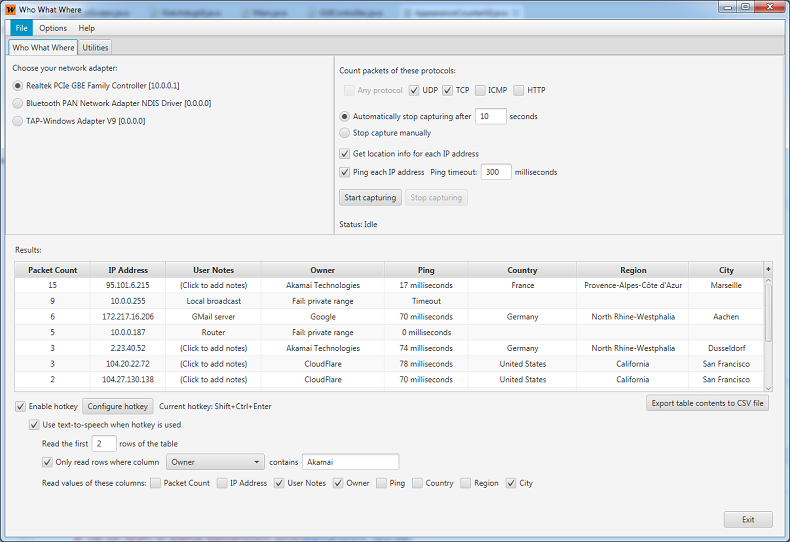
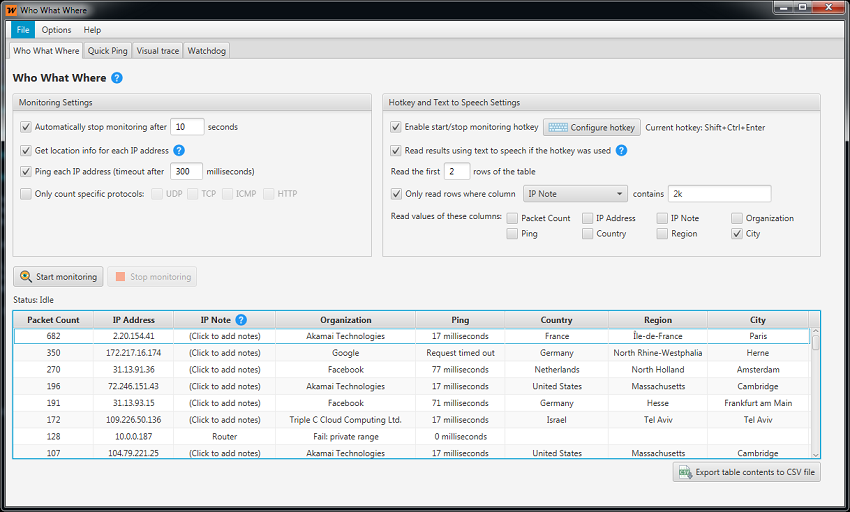
update

Changed region(s): [[0.0, 0.0, 1.0, 1.0], [0.8506, 0.4062, 0.9418, 0.4688], [0.2734, 0.375, 0.3038, 0.4062]]

diff --git a/index.html b/index.html
@@ -19,7 +19,8 @@
 			<h1>Who What Where</h1>
 		</div>
 
-		<p><strong>Analyze your network traffic to find what IP addresses are used and where they're from. Additional utilities include Ping-to-Speech, Visual Trace, and Watchdog that notifies when a pre-defined type of packet is sent or received.</strong></p>
+		<p><strong>Analyze your PC's network traffic to see which IP addresses it communicates with and where they're from.
+		<br><br>Additional features include Quick Ping, Visual Trace, and Watchdog which inspects network traffic and notifies when a packet matches a predefined rule.</strong></p>
 
 		<div class="links">
 			<a href="https://github.com/ck3ck3/WhoWhatWhere/releases">Download Here</a>
@@ -27,31 +28,31 @@
 		</div>
 
 		<div class="screenshot"><a href="http://ck3ck3.github.io/WhoWhatWhere/screenshots/WhoWhatWhere.png"><img src="http://ck3ck3.github.io/WhoWhatWhere/screenshots/WhoWhatWhere-medium.png"></a></div>
-		<div class="screenshot"><a href="http://ck3ck3.github.io/WhoWhatWhere/screenshots/VisualTrace.png"><img src="http://ck3ck3.github.io/WhoWhatWhere/screenshots/VisualTrace-medium.png"></a></div>
+		<div class="screenshot"><a href="http://ck3ck3.github.io/WhoWhatWhere/screenshots/VisualTraceAnim.gif"><img src="http://ck3ck3.github.io/WhoWhatWhere/screenshots/VisualTraceAnim.gif" width="850" /></a></div>
 		<img src="http://2no.co/1ffJ"/>
 
 	    <h1>Feature list</h1>
 	    <ul>
 	      <li>
 	      	<h2><a class="imgLink" href="http://ck3ck3.github.io/WhoWhatWhere/screenshots/WhoWhatWhere.png">Who What Where</a></h2>
-	      	<p>See the IP addresses that your computer communicates with, sorted by amount of packets transmitted. Shows GeoIP and a ping result for each address. Can be used for determining a game server IP or monitoring suspicious internet connections.</p>
+	      	<p>See the IP addresses that your computer communicates with, sorted by amount of packets transmitted. Shows GeoIP info(organization, country, region, and city) and a ping result for each address. Can be used for determining a game server IP or monitoring suspicious internet connections.</p>
 	      </li>
 
 	      <li>
-	      	<h2><a class="imgLink" href="http://ck3ck3.github.io/WhoWhatWhere/screenshots/PingToSpeech.png">Ping to Speech</a></h2>
-	      	<p>Press a hotkey and hear the result of a ping sent to a predefined IP address or hostname. Useful while playing online games.</p>
+	      	<h2><a class="imgLink" href="http://ck3ck3.github.io/WhoWhatWhere/screenshots/QuickPing.png">Quick Ping</a></h2>
+	      	<p>Press a hotkey and hear the result of a ping sent to a predefined IP address or hostname. Useful while playing online games. The ping result can be shown in a pop-up message or read out loud in one of several voices and languages (English, French, German, Italian).</p>
 	      </li>
 
+		  <li>
+	      	<h2><a class="imgLink" href="http://ck3ck3.github.io/WhoWhatWhere/screenshots/VisualTraceAnim.gif">Visual Trace</a></h2>
+	      	<p>Perform a traceroute for a given IP address or hostname and see the route plotted on a map as the trace progresses.</p>
+	      </li>
+		  
 	      <li>
 	      	<h2><a class="imgLink" href="http://ck3ck3.github.io/WhoWhatWhere/screenshots/Watchdog.png">Watchdog</a></h2>
-			<p>Inspects network traffic and checks if any packet matches a predefined filter. Filters include packet direction (incoming/outgoing), IP address or ranges (subnets), user notes, packet size (including ranges) and source/destination ports ranges. Upon finding a match, a predefined message will be read out by text-to-speech or displayed in a pop-up message.
+			<p>Inspects network traffic and checks if any packet matches a predefined filter. Filters include IP address or ranges (subnets), packet direction (incoming/outgoing), protocol, source/destination ports, and packet size. Upon finding a match, a predefined message will be displayed in a pop-up message or read out loud in one of several voices and languages (English, French, German, Italian).
 			<br>This feature can be used as a notifier for an incoming connection, for example.
 			</p>
-	      </li>
-
-	      <li>
-	      	<h2><a class="imgLink" href="http://ck3ck3.github.io/WhoWhatWhere/screenshots/VisualTrace.png">Visual Trace</a></h2>
-	      	<p>Perform a trace-route for a given IP address or hostname. Once the trace is complete, a visual trace is available, which shows the route of your packet on a map.</p>
 	      </li>
 	    </ul>
 		
@@ -80,15 +81,14 @@
 
 
 	    <h2>How to Use</h2> 
-	    <p>Who What Where can be minimized to the systrem tray by pressing the 'x' (close window) button. In order to exit for the program, press the Exit button or right-click the icon in the system-tray and choose "Exit".</p>
+	    <p>Who What Where can be minimized to the systrem tray by pressing the 'x' (close window) button. In order to exit for the program, use the menu "File" -> "Exit" or right-click the icon in the system-tray and choose "Exit". You can also set Who What Where to exit when clicking on the close window button by unchecking the menu item "Options" -> "Minimize to system tray on close".</p>
 
-	    <h3>Pick your network adapter: </h3> 
-	    <p>In the top-left pane there should be a list with at least one network adapter (<a class="imgLink" href="http://ck3ck3.github.io/WhoWhatWhere/screenshots/NetworkAdapter.png">example</a>). Select the adapter your want to listen to. If you're not
-	    sure which one to choose (the name would often have "ethernet" or "wireless" in it), just try and see which one works.</p>
+	    <h3>Pick your network adapter: </h3>
+		<p>If your PC has more than one active network adapter, a <a class="imgLink" href="http://ck3ck3.github.io/WhoWhatWhere/screenshots/NicSelection.png">choice dialog</a> will be displayed on the first run of the program. You can use the "Auto-detect" button or choose your network adapter from a list. You can always get to this dialog manually if needed, by using the menu "Options" -> "Select network adapter".
+		</p>
 
 	    <h3>Who What Where</h3> 
-	    <p>Who What Where listens to (aka "captures") your internet traffic and shows you which IP addresses were contacted, as well as some additional info such as ping time and geographical location of the IP address. Set your preferred settings, start and
-	    stop a capture - and the results will be shown in the table.
+	    <p>Who What Where monitors your internet traffic and shows you which IP addresses your PC communicates with, as well as some additional information such as ping result and geographical location of the IP address. Set your preferred settings, start monitoring, and the results will be shown in the table once the monitoring stops. The results can also be read out to you so that Who What Where doesn't have to be visible on the screen.
 		<br><br>
 	    <a class="imgLink" href="http://ck3ck3.github.io/WhoWhatWhere/screenshots/CaptureOptions.png">Capture Options:</a>
 	    <ul>
@@ -114,18 +114,20 @@
 	    the first X rows or only rows that contain a certain value in a certain column. You can also select which column values to read out.
 		</p>
 
-	    <h3>Ping to Speech</h3> <p>Put in any IP or hostname, and press the hotkey. The ping result will be read out. The hotkey is configurable, and the default one (Ctrl+NumPad 0) requires the numlock on your keyboard to be on.
+	    <h3>Quick Ping</h3> <p>Enter any IP or hostname, and press the hotkey. The ping result will be read out or shown in a pop-up message. If you choose to have the result read out loud, you can select several voices and languages (English, German, French, Italian) through the menu "Options" -> "Configure text to speech voices". The hotkey is configurable, and the default one (Ctrl+NumPad 0) requires the numlock on your keyboard to be on.
 
 
-	    <h3>Watchdog</h3> <p>Watchdog listens to your network traffic and informs you when a packet matches a certain filter that you set. You can set filters based on packet direction (incoming/outgoing), IP address or ranges (subnets), user notes, packet size (including ranges) and source/destination ports ranges.
-		<br>Click "Manage match list" to add entries to the filters list, or load a saved preset. When a match is found, the message you wrote for that filter will be read out by text-to-speech or displayed as a pop-up on the screen, according to your selection. Once the filters and messages are set, press Done.
+	    <h3>Watchdog</h3> <p>Watchdog listens to your network traffic and informs you when a packet matches a certain rule that you set. You can set rules based on IP address or ranges (subnets), IP notes, packet direction (incoming/outgoing), protocol, source/destination ports and packet size.
+		<br>When a match is found, the message you wrote for that rule will be read out by text-to-speech (in a voice and language that you can configure) or displayed as a pop-up on the screen. 
 		<br>Select a radiobutton to indicate if Watchdog should just wait for the first packet of this type and inform you, or keep watching for these packets until you stop it. If you choose to keep looking for matches, specify
-		a cooldown period. A cooldown period is the minimal amount of time between getting a Watchdog alert, its purpose is to avoid flooding you with messages. Minimal cooldown period is 3 seconds.
-		<br>To start the Watchdog, click "Start waiting for match" or press the hotkey. The default hotkey (Ctrl+NumPad 1) requires the numlock on your keyboard to be on.
+		a cooldown period. A cooldown period is the minimal amount of time between getting Watchdog alerts; its purpose is to avoid flooding you with messages. Minimal cooldown period is 1 second, the default is 3 seconds.
+		<br>Watchdog can be started by clicking the "Start Watchdog" button or pressing the hotkey. The default hotkey (Ctrl+NumPad Del) requires the numlock on your keyboard to be on.
 		</p>
-	    <h3>Visual Trace</h3> <p>Put in any IP or hostname, and click "Trace". A trace window opens, where you can configure a ping timeout and whether or not to resolve hostnames. Click "Start trace" and wait for the trace to <a class="imgLink" href="http://ck3ck3.github.io/WhoWhatWhere/screenshots/Trace.png">complete</a>.
-	    Then click "Show visual trace". In the <a class="imgLink" href="http://ck3ck3.github.io/WhoWhatWhere/screenshots/VisualTrace.png">Visual Trace screen</a> you can check/uncheck any hop on the route and see the changes on the map. You can also
-	    click "Focus map here" to see the exact location of the hop zoomed in, or you can click "GeoIP Info" to view info from another GeoIP source on your default browser.
+	    <h3>Visual Trace</h3> <p>Enter any IP or hostname, and set the settings to your preferred values.
+		<br>Ping timeout sets the timeout for each of the 3 pings that are perfromed per hop.
+		<br>Checking the "Resolve hostnames" checkbox will try to get the hostname of each hop, keep in mind this might slow the trace down. 
+		<br>The setting "Stop tracing if X consecutive hops haven't responded" allows you to automatically stop the trace once it's not likely that another hop will be discovered, instead of waiting for the trace to end by reaching its maximum of 30 hops.
+		<br>Once you're ready, click "Trace" to start, and watch the route get plotted as the trace advances. When the trace ends (either by reaching the destination hop or due to the user aborting the trace) you can show/hide any map pin on the route by the checking/unchecking the checkbox on the trace results table. You can also click the magnifying glass icon ("Zoom in") to see the exact location of the hop and zoom further in with the spinner's arrows. By right clicking any row in the table you can see more GeoIP Info from another GeoIP source on your default browser.
 
 	    <a name="GeoIPLimitations"></a>
 	    <h3><i>Note about GeoIP Limitations:</i></h3> <p>Geographical IP services aren't always accurate. The address is based on what the company that owns the address reported when the address was bought. Sometimes an international company might list all their IPs are located in one area (where the main

diff --git a/case-study.html b/case-study.html
@@ -47,20 +47,20 @@
 		<p>
 			NBA 2K17's online modes use dedicated servers that are run by the company (Take-two Interactive) or hosted on Amazon Web Services servers (AWS). The IPs of the servers are not published, and there's no simple way to check your latency to the server. This is where <strong>Who What Where</strong> comes into play.
 			<br><br>
-			While playing an online match, we can use the hotkey to start and stop a capture. This will show us all the IP addresses that were being contacted during the time of the capture, their ping result (if allowed), their owning company's name and location. By the owner's name, we can usually figure out which one's related to the game. In our case, it's Take-two Interactive or Amazon. We can now see the ping result to that server, assuming it is configured to allow answering ping requests. If it does not, in case it's an Amazon server we can see where it's located and use <a href="http://www.cloudping.info/">this site</a> to get an approximation of our ping to it. Approximation and not an exact value since it's an "HTTP ping" which only emulates a "real" ICMP ping. The "real" ping might be a bit lower (better) than the HTTP ping.
+			While playing an online match, we can use the hotkey to start and stop monitoring. This will show us all the IP addresses that the PC communicated with while monitoring, their ping result (if allowed), their owning organization's name and location. By the organization's name, we can usually figure out which one is related to the game. In our case, it's Take-two Interactive or Amazon. We can now see the ping result to that server, assuming it is configured to allow answering ping requests. If it does not, in case it's an Amazon server we can see where it's located and use <a href="http://www.cloudping.info/">this site</a> to get an approximation of our ping to it. Approximation and not an exact value since it's an "HTTP ping" which only emulates a "real" ICMP ping. The "real" ping might be a bit lower (better) than the HTTP ping.
 			<br><br>
 			If the latency is too high, we can try to see why by performing a trace-route. Right-click the address of the server and choose <strong>Visual Trace</strong>. We can then see the traceroute result, and also see it visually to understand where the delay is. There's not much that you can do to "fix" it once the lag is outside of your home network, but you can get a general idea of where your data gets delayed.
 			<br><br>
-			Another usage for Who What Where is to be able to know on which server you're playing right now. NBA 2K17 has servers in Europe, USA and Asia, and sometimes you might play on a different region's server, which will cause lag due to the extra distance the data has to travel. This happens sometimes when playing with people from other regins. By using the <strong>text-to-speech options</strong> you can configure it so that once you start and stop a capture with the hotkey, you will hear the city name of where the server is and the ping result to it. 
+			Another usage for Who What Where is to be able to know on which server you're playing right now. NBA 2K17 has servers in Europe, USA and Asia, and sometimes you might play on a different region's server, which will cause lag due to the extra distance the data has to travel. This happens sometimes when playing with people from other regins. By using the <strong>text-to-speech options</strong> you can configure it so that once you start and stop monitoring with the hotkey, you will hear the city name of where the server is and the ping result to it. 
 			<br><br>
-			If you only want to hear the ping result to a specific IP address or hostname (like the game server), you can use the <strong>Ping-to-Speech</strong> feature. Just press the hotkey and listen to the ping result.
+			If you only want to hear the ping result to a specific IP address or hostname (like the game server), you can use the <strong>Quick Ping</strong> feature. Just press the hotkey and listen to the ping result.
 		</p>
 		<br>
 		<h2>Using Watchdog to find out when an online match is about to start</h2>
 		<p>
 			In some game modes, it takes a while for game to start while it's looking for a match, or waiting for enough players to gather in the lobby, or just waiting for another game to finish. But when your game finally starts, in some modes there is no audio cue to let the user know. Sometimes people alt-tab away and forget about the game they're waiting on.
 			<br>
-			Watchdog can listen to incoming traffic, and wait for a packet that matches a ceretain filter out of a list. Once one of those packets is detected, a user-defined text-to-speech message is played or a message pops up on the screen. In NBA 2K17, we can know a game is about to start as soon as we start receiving UDP packets from the game server. 
+			Watchdog can listen to incoming traffic, and wait for a packet that matches a ceretain rule out of a list. Once one of those packets is detected, a user-defined text-to-speech message is played or a message pops up on the screen. In NBA 2K17, we can know a game is about to start as soon as we start receiving UDP packets from the game server. 
 		</p>
 		
 	</div>
